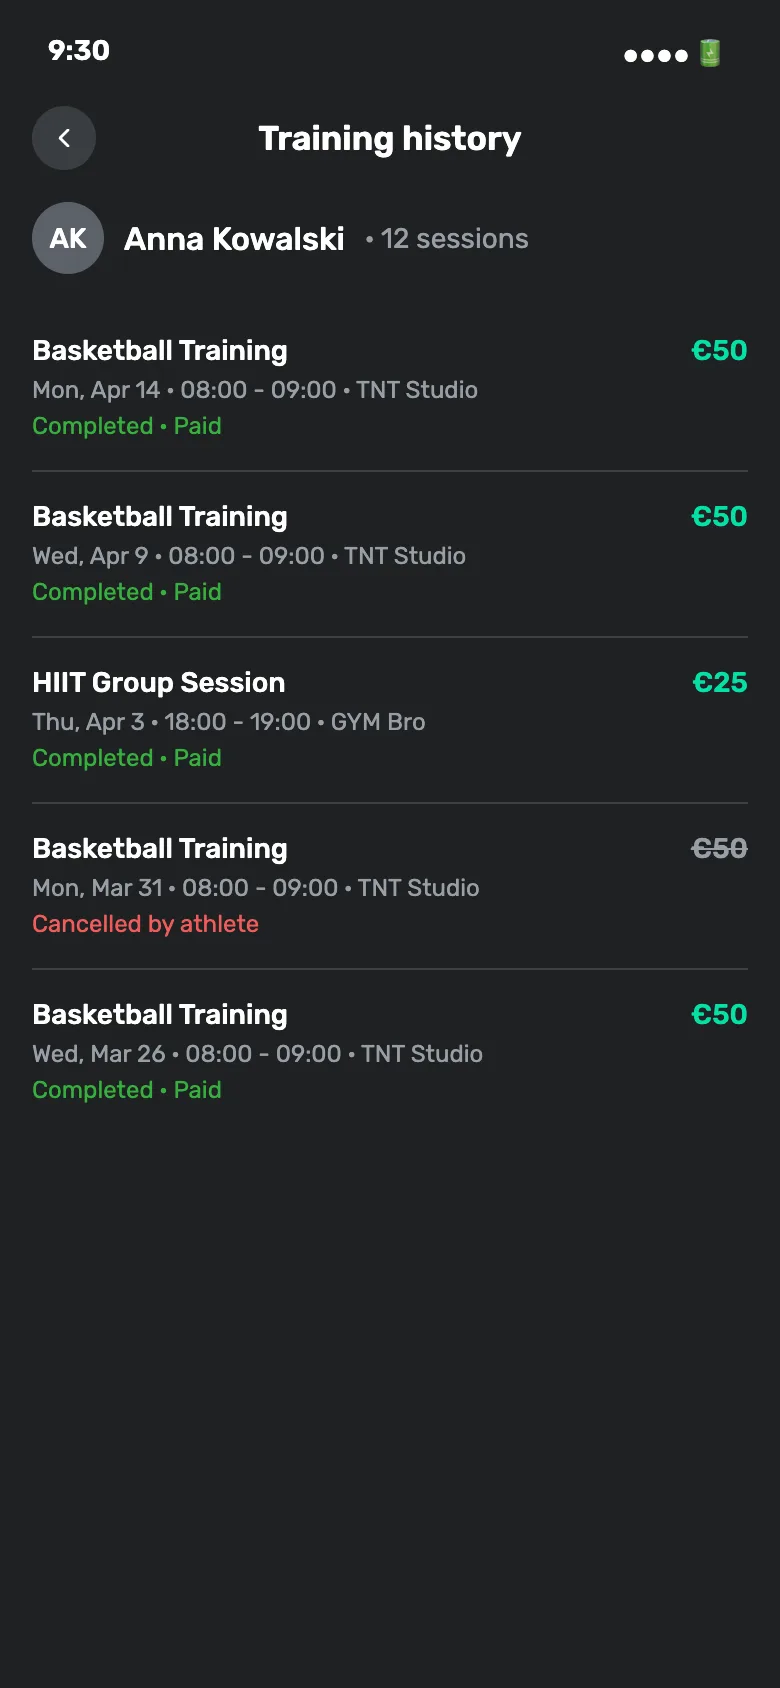
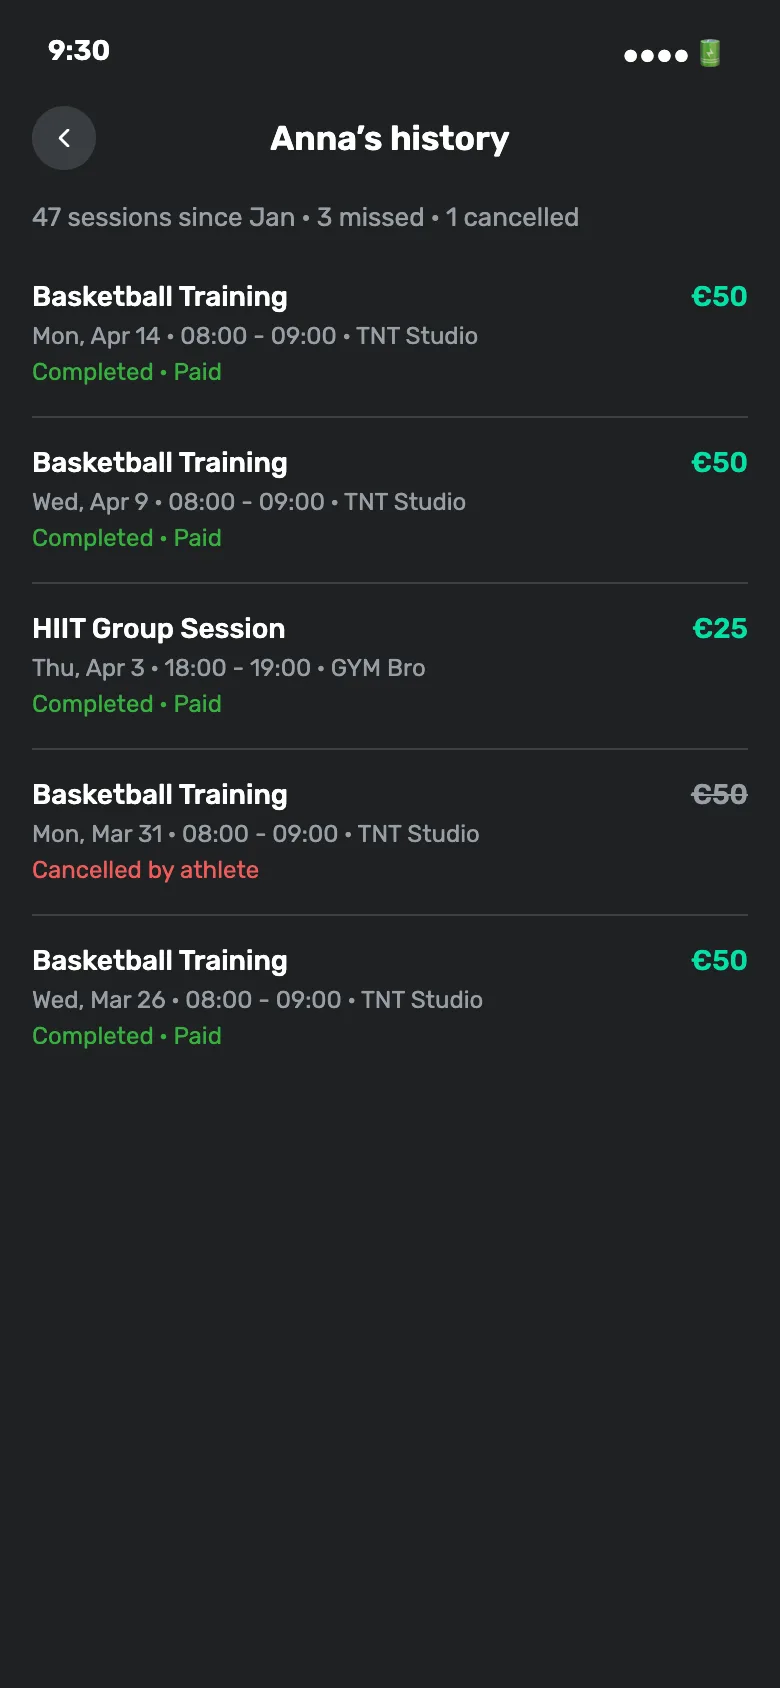
prototypes: history — name in the title; tinted sheets/menus/snackbars as a blurred material; more volume on the white CTA

diff --git a/prototypes/board/board-data.js b/prototypes/board/board-data.js
@@ -3283,7 +3283,7 @@ window.FIT_BOARD = {
       "screens": [
         {
           "id": "s-draft-focus",
-          "hash": "e9c72c2bcd68",
+          "hash": "fc599da4ffd2",
           "title": "A · Focus card",
           "inApp": "",
           "status": "proposal",
@@ -3302,7 +3302,7 @@ window.FIT_BOARD = {
         },
         {
           "id": "s-draft-timeline",
-          "hash": "cbd92d114c8c",
+          "hash": "d051b2089416",
           "title": "B · Timeline",
           "inApp": "",
           "status": "proposal",
@@ -3322,7 +3322,7 @@ window.FIT_BOARD = {
         },
         {
           "id": "s-draft-segments",
-          "hash": "c2e06d820b58",
+          "hash": "063716d278f7",
           "title": "C · Segments",
           "inApp": "",
           "status": "proposal",
@@ -3342,7 +3342,7 @@ window.FIT_BOARD = {
         },
         {
           "id": "s-draft-accent",
-          "hash": "7650fcea051e",
+          "hash": "3272f1ded9e0",
           "title": "D · Accent budget",
           "inApp": "",
           "status": "proposal",
@@ -3362,7 +3362,7 @@ window.FIT_BOARD = {
         },
         {
           "id": "s-draft-media",
-          "hash": "fbfc7ebed47d",
+          "hash": "eb4a70b10729",
           "title": "E · Media grammar",
           "inApp": "",
           "status": "proposal",
@@ -3382,7 +3382,7 @@ window.FIT_BOARD = {
         },
         {
           "id": "s-draft-quiet",
-          "hash": "4fe235381c51",
+          "hash": "a379fe208e69",
           "title": "F · Both (light)",
           "inApp": "",
           "status": "proposal",
@@ -3402,7 +3402,7 @@ window.FIT_BOARD = {
         },
         {
           "id": "s-draft-floating",
-          "hash": "89841f49e60e",
+          "hash": "dd486e34fb89",
           "title": "G · Floating panels",
           "inApp": "",
           "status": "proposal",
@@ -3422,7 +3422,7 @@ window.FIT_BOARD = {
         },
         {
           "id": "s-draft-tiles",
-          "hash": "d2e55ad4080c",
+          "hash": "10b1f561c840",
           "title": "H · Big title + tiles",
           "inApp": "",
           "status": "proposal",
@@ -3442,7 +3442,7 @@ window.FIT_BOARD = {
         },
         {
           "id": "s-draft-full",
-          "hash": "84f0da5f49e6",
+          "hash": "c9d2262cdd7b",
           "title": "I · Floating, filled",
           "inApp": "",
           "status": "proposal",
@@ -3466,7 +3466,7 @@ window.FIT_BOARD = {
         },
         {
           "id": "s-draft-client",
-          "hash": "ce57c75aaf3f",
+          "hash": "20801d4960b9",
           "title": "J · Client Detail, placed",
           "inApp": "",
           "status": "proposal",
@@ -3498,7 +3498,7 @@ window.FIT_BOARD = {
         },
         {
           "id": "s-draft-owed",
-          "hash": "415678db4815",
+          "hash": "cc0248a09ce0",
           "title": "↳ Owed (push)",
           "inApp": "Owed",
           "status": "proposal",
@@ -3518,7 +3518,7 @@ window.FIT_BOARD = {
         },
         {
           "id": "s-draft-selfpaced",
-          "hash": "666f63c7d740",
+          "hash": "145e125d72c9",
           "title": "↳ Self-paced",
           "inApp": "Anna’s self-paced",
           "status": "proposal",
@@ -3540,7 +3540,7 @@ window.FIT_BOARD = {
         },
         {
           "id": "s-draft-packages",
-          "hash": "04b5cf4c07dc",
+          "hash": "1bfa9e866473",
           "title": "↳ Packages",
           "inApp": "Anna’s packages",
           "status": "proposal",
@@ -3560,7 +3560,7 @@ window.FIT_BOARD = {
         },
         {
           "id": "s-client-selfpaced",
-          "hash": "d158a728694e",
+          "hash": "57c66a4a0279",
           "title": "↳ canon copy",
           "inApp": "Self-paced",
           "status": "proposal",
@@ -3582,7 +3582,7 @@ window.FIT_BOARD = {
         },
         {
           "id": "s-pkg-detail",
-          "hash": "3995f4487add",
+          "hash": "cd5586146697",
           "title": "↳ Package detail",
           "inApp": "Package",
           "status": "proposal",
@@ -3602,7 +3602,7 @@ window.FIT_BOARD = {
         },
         {
           "id": "s-pkg-history",
-          "hash": "8b0d1b4cf62d",
+          "hash": "683c6ef67c8b",
           "title": "↳ Package history",
           "inApp": "Activity",
           "status": "proposal",
@@ -3622,7 +3622,7 @@ window.FIT_BOARD = {
         },
         {
           "id": "s-crm-addr-pick",
-          "hash": "e65befe07408",
+          "hash": "4f84109b6bd6",
           "title": "↳ Addresses",
           "inApp": "",
           "status": "proposal",
@@ -3642,7 +3642,7 @@ window.FIT_BOARD = {
         },
         {
           "id": "s-crm-addr-form",
-          "hash": "a3c1b8ac178e",
+          "hash": "985508fe79fa",
           "title": "↳ Address form",
           "inApp": "Home address",
           "status": "proposal",
@@ -3662,7 +3662,7 @@ window.FIT_BOARD = {
         },
         {
           "id": "s-client-notes-editor",
-          "hash": "c180a5eb792e",
+          "hash": "2e841be652cb",
           "title": "↳ Note",
           "inApp": "",
           "status": "proposal",
@@ -3682,9 +3682,9 @@ window.FIT_BOARD = {
         },
         {
           "id": "s-client-history",
-          "hash": "c36e518e7155",
+          "hash": "b99b6c4f97bf",
           "title": "↳ History",
-          "inApp": "Training history",
+          "inApp": "Anna’s history",
           "status": "proposal",
           "theme": "dark",
           "entry": false,
@@ -3702,7 +3702,7 @@ window.FIT_BOARD = {
         },
         {
           "id": "s-create-client",
-          "hash": "ab8df2392e57",
+          "hash": "6eb7dd7a972a",
           "title": "↳ Edit info",
           "inApp": "New client",
           "status": "proposal",
@@ -3722,7 +3722,7 @@ window.FIT_BOARD = {
         },
         {
           "id": "s-add-to-group",
-          "hash": "890bc41a41cb",
+          "hash": "041f6409c3a6",
           "title": "↳ Groups",
           "inApp": "Anna’s groups",
           "status": "proposal",
@@ -3742,7 +3742,7 @@ window.FIT_BOARD = {
         },
         {
           "id": "s-thread",
-          "hash": "b02a23aa485b",
+          "hash": "22523f5f519e",
           "title": "↳ Message",
           "inApp": "John Miller",
           "status": "proposal",
@@ -3762,7 +3762,7 @@ window.FIT_BOARD = {
         },
         {
           "id": "s-review",
-          "hash": "baa3dab4ca81",
+          "hash": "bcb17cda34f1",
           "title": "↳ Self-paced · review clips",
           "inApp": "Review · Julia",
           "status": "proposal",
@@ -3782,7 +3782,7 @@ window.FIT_BOARD = {
         },
         {
           "id": "s-setup",
-          "hash": "051788469bba",
+          "hash": "0b3e422ba7d9",
           "title": "↳ Self-paced · setup",
           "inApp": "Set up for Anna",
           "status": "proposal",
@@ -3802,7 +3802,7 @@ window.FIT_BOARD = {
         },
         {
           "id": "s-invite-select",
-          "hash": "5145b9cb74f8",
+          "hash": "ae5bb6c9b397",
           "title": "↳ Book · session",
           "inApp": "Select training",
           "status": "proposal",
@@ -3824,7 +3824,7 @@ window.FIT_BOARD = {
         },
         {
           "id": "s-invite-time",
-          "hash": "3c315dbe23b8",
+          "hash": "5873a6928815",
           "title": "↳ Book · time",
           "inApp": "",
           "status": "proposal",
@@ -3844,7 +3844,7 @@ window.FIT_BOARD = {
         },
         {
           "id": "s-schedule-review",
-          "hash": "aed488679d2b",
+          "hash": "c41588087d50",
           "title": "↳ Book · review",
           "inApp": "Review request",
           "status": "proposal",
@@ -3986,6 +3986,11 @@ window.FIT_BOARD = {
         },
         {
           "from": "s-client-notes-editor",
+          "to": "s-draft-client",
+          "back": true
+        },
+        {
+          "from": "s-client-history",
           "to": "s-draft-client",
           "back": true
         },

diff --git a/prototypes/flows/coach/client-detail-drafts.html b/prototypes/flows/coach/client-detail-drafts.html
@@ -489,9 +489,24 @@
   .fit-dark.k-alpha .fit-action-circle--primary span { color: var(--fit-teal-500); }
   .fit-dark.k-alpha .cd-j-badge-n.calm { background: rgba(255,255,255,0.18); color: #fff; }
   .fit-dark.k-alpha .cd-j-tile-empty { background: transparent; box-shadow: none; border-color: rgba(255,255,255,0.22); }
-  .fit-dark.k-alpha .fit-sheet { background: #062e3b; }
-  .fit-dark.k-alpha .fit-context-menu { background: #0a3a47; }
-  .fit-dark.k-alpha .fit-snackbar { background: #04161d; }
+  /* Sheets, menus, snackbars on the tinted canvas are a MATERIAL, not a paint: a dark
+     translucent body that blurs the gradient behind it, a hairline light on the top
+     edge, and a faint teal breath at the top so it belongs to the canvas. Blur is right
+     here where it was wrong on cards — a sheet is a layer above the screen, and the
+     screen showing through is what says so. */
+  .fit-dark.k-alpha .fit-sheet {
+    background: linear-gradient(180deg, rgba(0,190,215,0.10), rgba(0,190,215,0) 120px), rgba(5,24,31,0.80);
+    -webkit-backdrop-filter: blur(28px) saturate(1.5); backdrop-filter: blur(28px) saturate(1.5);
+    box-shadow: 0 1px 0 rgba(255,255,255,0.14) inset, 0 -18px 50px rgba(0,0,0,0.35);
+  }
+  .fit-dark.k-alpha .fit-sheet-overlay { background: rgba(2,12,16,0.45); }
+  .fit-dark.k-alpha .fit-sheet-handle { background: rgba(255,255,255,0.28); }
+  .fit-dark.k-alpha .fit-sheet-action-row, .fit-dark.k-alpha .fit-participants-card { background: rgba(255,255,255,0.06); box-shadow: inset 0 0 0 1px rgba(255,255,255,0.06); }
+  .fit-dark.k-alpha .fit-context-menu {
+    background: rgba(8,36,45,0.86); -webkit-backdrop-filter: blur(24px) saturate(1.4); backdrop-filter: blur(24px) saturate(1.4);
+    box-shadow: 0 1px 0 rgba(255,255,255,0.12) inset, 0 14px 40px rgba(0,0,0,0.45);
+  }
+  .fit-dark.k-alpha .fit-snackbar { background: rgba(4,22,29,0.88); -webkit-backdrop-filter: blur(16px); backdrop-filter: blur(16px); border-color: rgba(255,255,255,0.14); }
   /* CTA colour on the tinted canvas — the brand gradient is already the canvas, so a gradient
      button has nothing to stand out against. Two candidates: white (Revolut's answer: the one
      solid object on a coloured screen) and flat teal (brand, but a single colour, no second
@@ -501,13 +516,15 @@
      plastic), a hairline highlight on the top edge, and a soft drop shadow that lifts it off
      the scrim. Same recipe on the Book circle. */
   .fit-dark.k-alpha.k-cta-white .fit-btn-primary {
-    background: linear-gradient(180deg, #ffffff 0%, #eef4f6 100%); color: #12161a;
-    box-shadow: 0 1px 0 rgba(255,255,255,0.85) inset, 0 -1px 0 rgba(0,0,0,0.06) inset, 0 10px 26px rgba(0,0,0,0.38), 0 2px 6px rgba(0,0,0,0.22);
+    background: linear-gradient(180deg, #ffffff 0%, #f3f7f8 45%, #e2ebee 100%); color: #12161a;
+    box-shadow: 0 1px 0 rgba(255,255,255,0.95) inset, 0 -2px 0 rgba(0,0,0,0.08) inset, 0 0 0 1px rgba(255,255,255,0.22),
+                0 16px 34px rgba(0,0,0,0.45), 0 3px 8px rgba(0,0,0,0.28), 0 0 40px rgba(5,224,166,0.10);
   }
   .fit-dark.k-alpha.k-cta-white .fit-btn-primary:active { background: linear-gradient(180deg, #f2f6f7 0%, #e3eaec 100%); box-shadow: 0 1px 0 rgba(255,255,255,0.6) inset, 0 4px 12px rgba(0,0,0,0.3); }
   .fit-dark.k-alpha.k-cta-white .fit-action-circle--primary i {
-    background: linear-gradient(180deg, #ffffff 0%, #eef4f6 100%); color: #12161a;
-    box-shadow: 0 1px 0 rgba(255,255,255,0.85) inset, 0 8px 22px rgba(0,0,0,0.38), 0 2px 5px rgba(0,0,0,0.22);
+    background: linear-gradient(180deg, #ffffff 0%, #f3f7f8 45%, #e2ebee 100%); color: #12161a;
+    box-shadow: 0 1px 0 rgba(255,255,255,0.95) inset, 0 -2px 0 rgba(0,0,0,0.08) inset, 0 0 0 1px rgba(255,255,255,0.22),
+                0 12px 28px rgba(0,0,0,0.45), 0 3px 7px rgba(0,0,0,0.28), 0 0 30px rgba(5,224,166,0.12);
   }
   .fit-dark.k-alpha.k-cta-white .fit-action-circle--primary span { color: #fff; }
   .fit-dark.k-alpha.k-cta-white .cd-s-hero-empty .cd-s-go-corner { color: #fff; }
@@ -2691,16 +2708,12 @@
   <div class="fit-phone-header">
     <div class="fit-status-bar"><span>9:30</span><span>&#9679;&#9679;&#9679;&#9679; &#128267;</span></div>
     <div class="fit-header">
-      <button class="fit-header-back"><svg viewBox="0 0 24 24" fill="none" stroke="currentColor" stroke-width="2" stroke-linecap="round" stroke-linejoin="round"><path d="M15 18l-6-6 6-6"/></svg></button>
-      <span class="fit-header-title">Training history</span>
+      <button class="fit-header-back" onclick="go('s-draft-client',document.querySelector('.sidebar button[onclick*=s-draft-client]'))"><svg viewBox="0 0 24 24" fill="none" stroke="currentColor" stroke-width="2" stroke-linecap="round" stroke-linejoin="round"><path d="M15 18l-6-6 6-6"/></svg></button>
+      <span class="fit-header-title">Anna&rsquo;s history</span>
     </div>
   </div>
   <div class="fit-phone-content">
-    <div style="display:flex;align-items:center;gap:10px;padding:0 16px 16px;">
-      <div style="width:36px;height:36px;border-radius:50%;background:var(--fit-gray-600);display:flex;align-items:center;justify-content:center;font-size:14px;font-weight:500;color:var(--fit-white);flex-shrink:0;">AK</div>
-      <span style="font-size:16px;font-weight:500;color:var(--fit-text-primary);">Anna Kowalski</span>
-      <span style="font-size:14px;color:var(--fit-text-tertiary);">· 12 sessions</span>
-    </div>
+    <div style="padding:0 16px 10px;font-size:13px;color:var(--fit-text-tertiary);">47 sessions since Jan &middot; 3 missed &middot; 1 cancelled</div>
 
     <!-- Past events list -->
     <div style="padding:0 16px;">

diff --git a/prototypes/board.html b/prototypes/board.html
@@ -309,7 +309,7 @@
 <div class="note" id="note"></div>
 <div class="hint">Scroll to pan · ⌘/Ctrl + scroll to zoom · drag the canvas · click a screen to open the live prototype · <b>\</b> screen list</div>
 
-<script src="./board/board-data.js?v=a9a6c199c3"></script>
+<script src="./board/board-data.js?v=df15a99e27"></script>
 <script>
 // ---------------------------------------------------------------------------
 // Layout constants. Positions are computed from the graph — nothing is authored.
